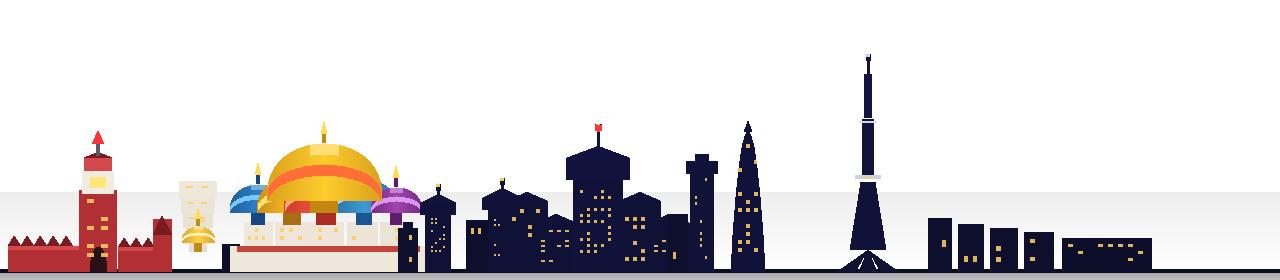
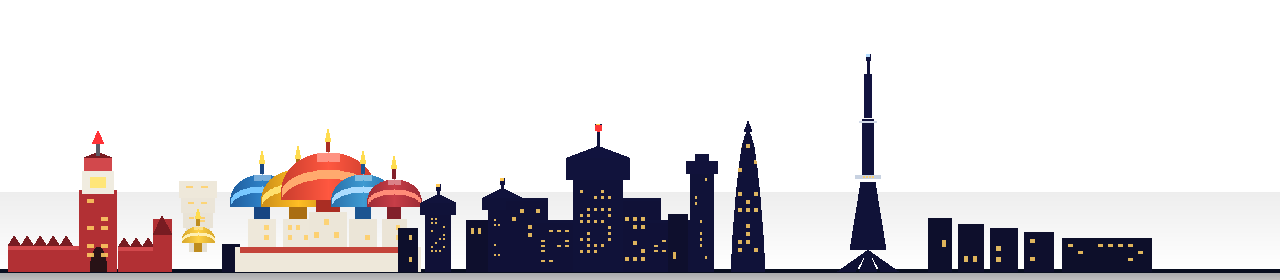
Deploy Stack Rush mobile PWA

diff --git a/index.html b/index.html
@@ -619,7 +619,7 @@
       <div class="section-divider"></div>
       <p class="theme-label">City skyline <span id="cityUnlockHint"></span></p>
       <div class="theme-grid" id="cityGrid"></div>
-      <p class="theme-label" id="buildVer" style="margin-top:10px;opacity:.35;font-size:.62rem;text-align:center;">Build 4b53b1ba</p>
+      <p class="theme-label" id="buildVer" style="margin-top:10px;opacity:.35;font-size:.62rem;text-align:center;">Build 3987e500</p>
       <button class="secondary" id="optionsBackBtn" style="width:100%;margin-top:10px;">Back</button>
     </div>
   </div>
@@ -710,7 +710,7 @@ const MUSIC_TRACKS = [
 
 const SFX_FILES = ['drop', 'land', 'perfect', 'great', 'good', 'slice', 'gameover'];
 const ASSETS_BASE = 'assets/';
-const ASSETS_VER = 'cities11';
+const ASSETS_VER = '3987e500';
 const BOARD_KEY = 'stackrush_weekly_board';
 const PLAYER_NAME_KEY = 'stackrush_player_name';
 const BOARD_MAX = 15;
@@ -2781,7 +2781,7 @@ class GameEngine {
     if (alt < 0.05 || cosmic > 0.88) return;
     const rng = s => { s = Math.sin(s) * 1e4; return s - Math.floor(s); };
     const fade = Math.min(1.35, alt * 1.35) * (1 - cosmic * 0.85);
-    const skylineCeil = this.worldToScreenY(this.groundY) - this.h * 0.22;
+    const skylineCeil = this.worldToScreenY(this.groundY) - this.h * 0.32;
     this.cloudLayers.forEach(layer => {
       const scroll = (rise * layer.parallax) % (this.h * 0.55);
       const bandY = layer.yBand * this.h * 0.42 - scroll;
@@ -2891,7 +2891,7 @@ class GameEngine {
 
     if (img && img.complete && img.naturalWidth > 0) {
       const vivid = !!getCity(this.cityId).vivid;
-      const targetH = Math.min(vivid ? 230 : 200, this.h * (vivid ? 0.32 : 0.28));
+      const targetH = Math.min(vivid ? 250 : 200, this.h * (vivid ? 0.36 : 0.28));
       const scale = targetH / img.height;
       const tileW = img.width * scale;
       const tileH = img.height * scale;
@@ -2900,8 +2900,8 @@ class GameEngine {
       const topY = groundY - tileH * groundNorm;
 
       ctx.save();
-      ctx.globalAlpha = vivid ? Math.min(1, cityAlpha * 1.12) : cityAlpha;
-      if (vivid) ctx.filter = 'saturate(1.45) brightness(1.18) contrast(1.08)';
+      ctx.globalAlpha = vivid ? Math.min(1, cityAlpha * 1.2) : cityAlpha;
+      if (vivid) ctx.filter = 'saturate(1.55) brightness(1.22) contrast(1.12)';
       for (let x = -parallax - tileW; x < this.w + tileW; x += tileW) {
         ctx.drawImage(img, x, topY, tileW, tileH);
       }
@@ -4024,7 +4024,7 @@ if ('serviceWorker' in navigator) {
     location.reload();
   });
   window.addEventListener('load', () => {
-    navigator.serviceWorker.register('./sw.js?v=4b53b1ba').then((reg) => {
+    navigator.serviceWorker.register('./sw.js?v=3987e500').then((reg) => {
       reg.update();
       if (reg.waiting) reg.waiting.postMessage({ type: 'SKIP_WAITING' });
       reg.addEventListener('updatefound', () => {

diff --git a/sw.js b/sw.js
@@ -1,5 +1,5 @@
 /* Stack Rush service worker — generated by build_mobile.py */
-const CACHE = 'stackrush-4b53b1ba';
+const CACHE = 'stackrush-3987e500';
 const ASSETS = [
   "./manifest.webmanifest",
   "./icon.svg",
